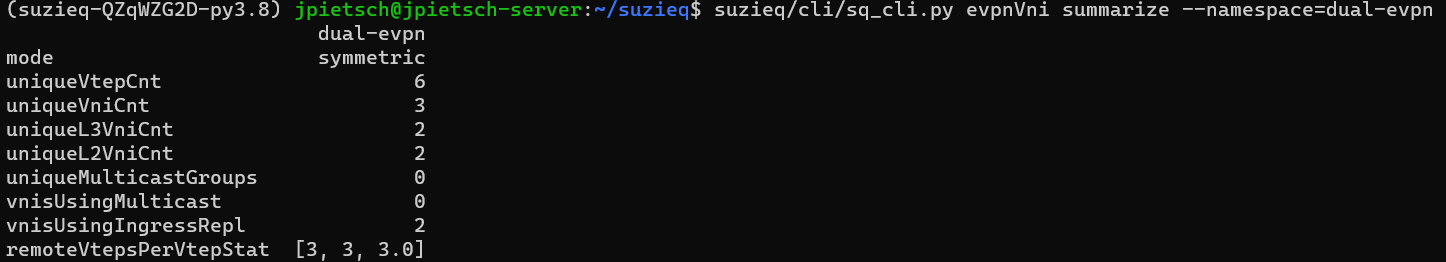
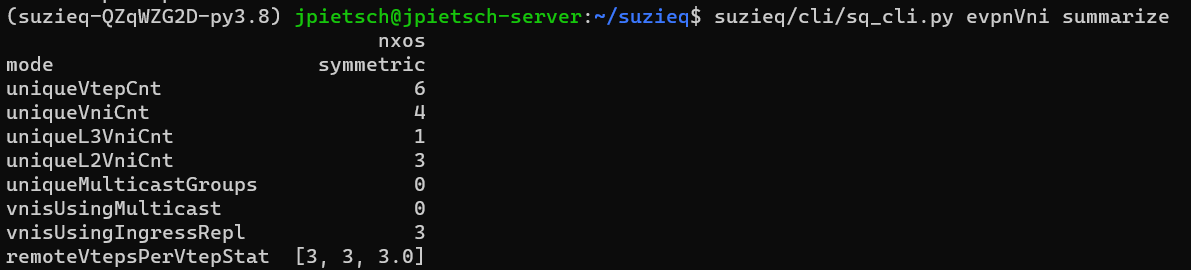
cleaned up XNA to all point to same NXOS namespace

diff --git a/_drafts/2021-04-201-Exploratory-Network-Analysis.md b/_drafts/2021-04-201-Exploratory-Network-Analysis.md
@@ -53,7 +53,7 @@ Suzieq is using standard data science tools like Python, Pandas, and Parquet. We
 
 ## An example of understanding a network in general
 
-Let's say that I'm new to a network. I want to understand what it is in the network and how it works. ![Suzieq device show](/assets/images/2021-04-xna/device.png)
+Let's say that I'm new to a network, either I'm a consultant looking at my customer's network for the first time or I'm a new operator at a company. I want to understand what it is in the network and how it works. ![Suzieq device show](/assets/images/2021-04-xna/device.png)
 This gives you an idea of what devices are in your network. From the summary table you can see that it's made up of several namespaces. Namespaces are a logical collection of devices in Suzieq. From the histogram on the top right, you can see the NOSes and how many devices in each. So this is a pretty simple network, and all the OSes are consistent, which is nice. 
 
 Let's look around, starting with routing protocols. As mentioned above, Suzieq collects operational state, like the OSPF neighbor information and BGP connections. You can view each of these, but for our purposes here to get a general overview, Suzieq has a summarize command. 
@@ -79,7 +79,7 @@ We have a screencast that goes into depth on investigating various aspects of MT
 
 
 ### Path Trace
-Sometimes you need to dive into a particular question to understand your network.  Suzieq can show you the forwarding decisions that routers make from a source, destination pair with the path command. ![Suzeq path trace](/assets/images/2021-04-xna/path-show-internet.png) You can see that it's going from one server to another, the first and last hops are L2 and in the middle are some form of tunneling. Clicking on the link spine01 to exit01, you will see how the forwarding decisions are made. ![Suzieq path debug](/assets/images/2021-04-xna/spine01-exit01-path.png) You can see all the forwarding decisions for that hop and that the route was populated by BGP.
+Sometimes you need to dive into a particular question to understand your network.  Suzieq can show you the forwarding decisions that routers make from a source, destination pair with the path command. ![Suzeq path trace](/assets/images/2021-04-xna/path-show-server101-server302.png) You can see that it's going from one server to another, the first and last hops are L2 and in the middle are some form of tunneling. Clicking on the link spine01 to exit01, you will see how the forwarding decisions are made. ![Suzieq path debug](/assets/images/2021-04-xna/leaf01-spine01-debug.png) You can see all the forwarding decisions for that hop and that the route was populated by BGP.
 
 We have a screencast to show off Path Trace:
 <iframe width="560" height="315" src="https://www.youtube.com/embed/4wZot1FBmrQ" frameborder="0" allow="accelerometer; autoplay; clipboard-write; encrypted-media; gyroscope; picture-in-picture" allowfullscreen></iframe>
